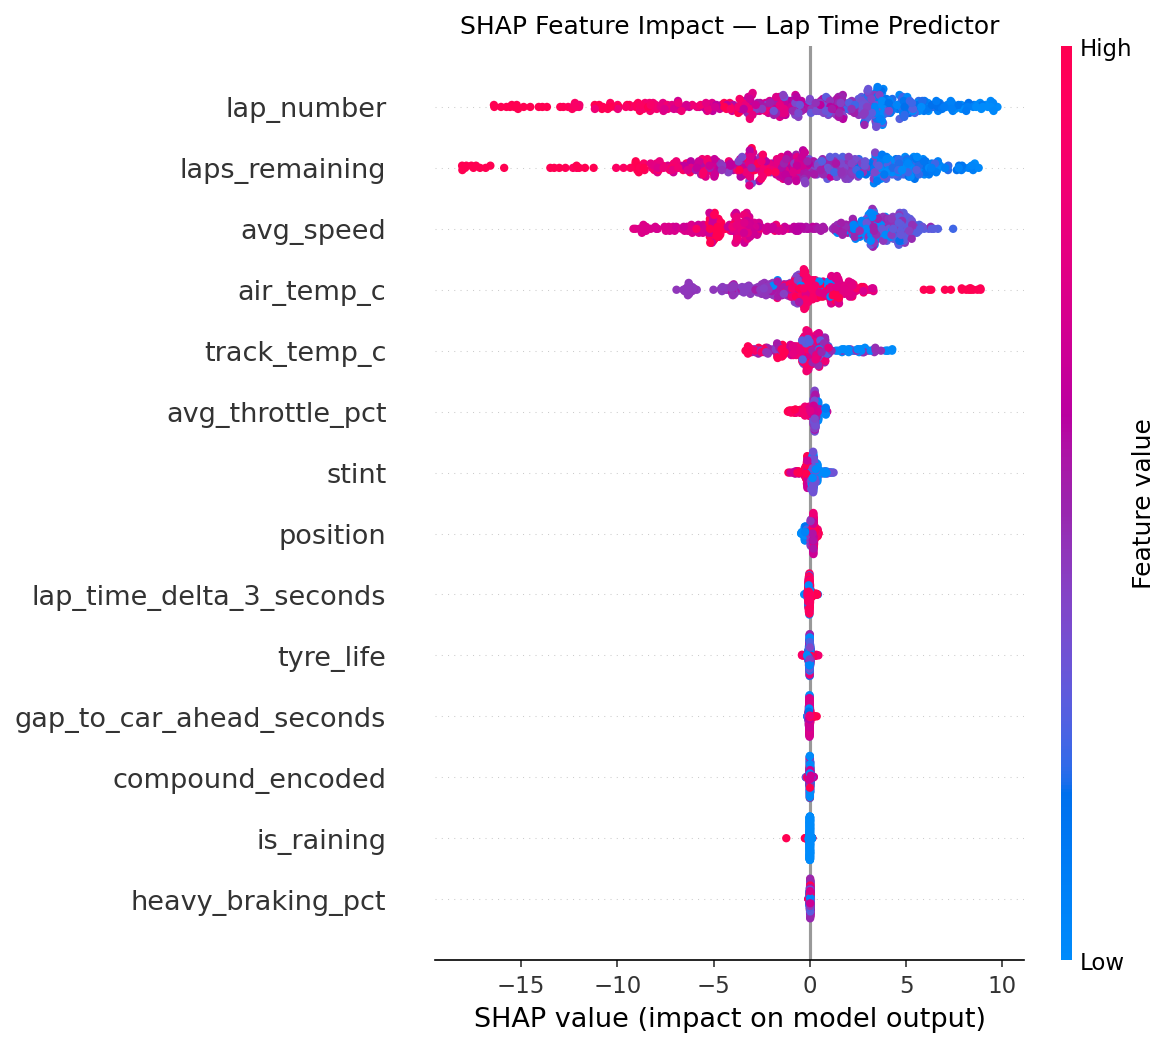
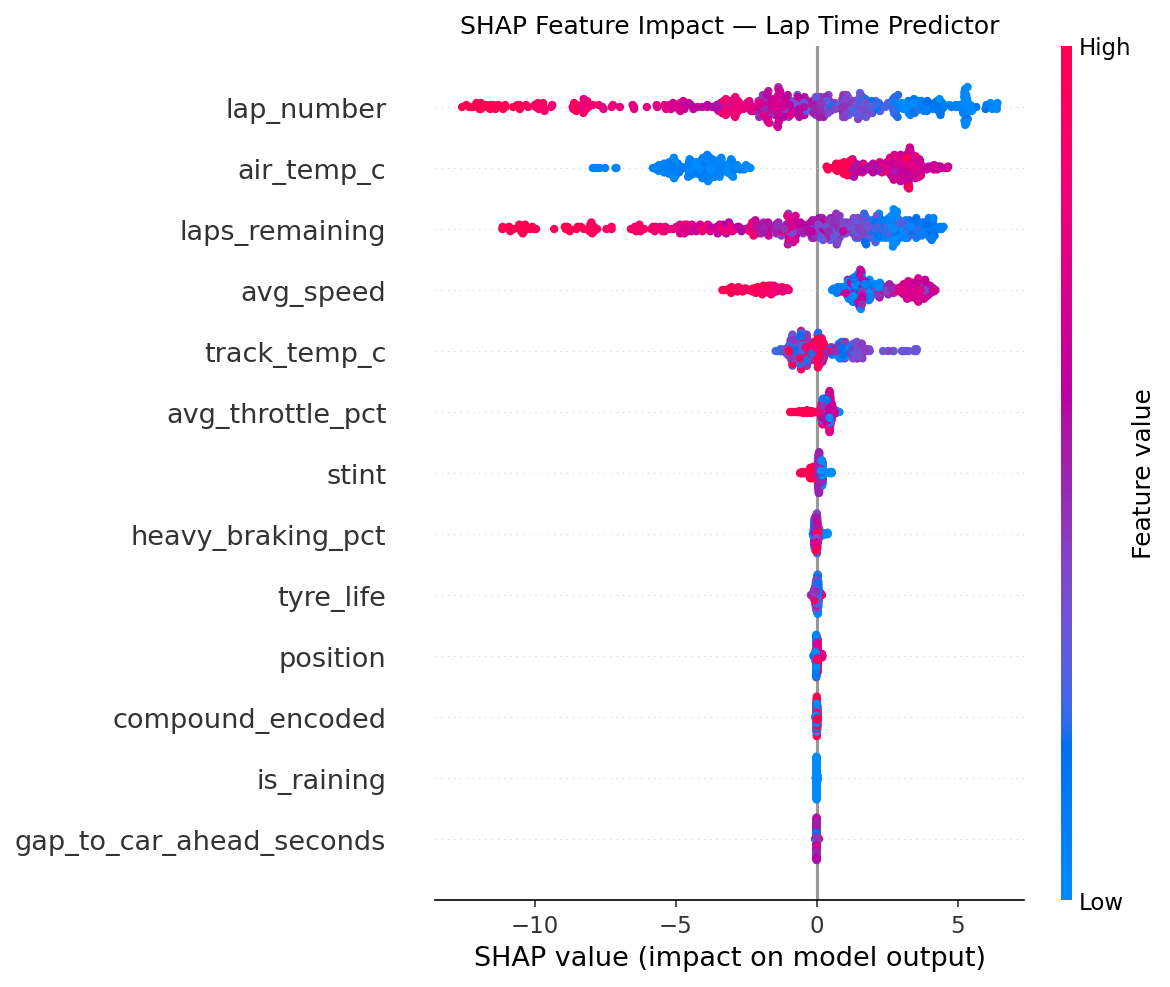
ml models updated, data leakage fixed

diff --git a/ml/pit_stop_predictor.py b/ml/pit_stop_predictor.py
@@ -29,14 +29,19 @@ ENCODER_PATH = 'ml/compound_encoder.pkl'
 PLOTS_DIR = 'ml/plots'
 
 def get_snowflake_connection():
-    user = input("Snowflake username: ")
-    password = getpass.getpass("Snowflake password: ")
+    print("\nSnowflake Connection")
+    user = input("Username: ")
+    password = getpass.getpass("Password: ")
+    account = input("Account identifier : ")
+    warehouse = input("Warehouse (default: PITWALL_WH): ") or 'PITWALL_WH'
+    database = input("Database (default: PITWALL): ") or 'PITWALL'
+    
     return snowflake.connector.connect(
         user=user,
         password=password,
-        account='AIZZHNC-TT89572',
-        warehouse='PITWALL_WH',
-        database='PITWALL',
+        account=account,
+        warehouse=warehouse,
+        database=database,
         schema='MARTS'
     )
 
@@ -47,7 +52,8 @@ def load_features(conn) -> pd.DataFrame:
             tyre_life, compound, position, lap_number,
             stint, track_temp_c, air_temp_c, is_raining,
             avg_speed, avg_throttle_pct, heavy_braking_pct,
-            pitted_this_lap, year
+            pitted_this_lap, year,
+            laps_remaining, gap_to_car_ahead_seconds
         FROM PITWALL.MARTS.MART_ML_FEATURES
         WHERE tyre_life IS NOT NULL
           AND position IS NOT NULL
@@ -56,7 +62,6 @@ def load_features(conn) -> pd.DataFrame:
     df.columns = df.columns.str.lower()
     print(f"Loaded {len(df)} rows")
     return df
-    
 
 def prepare_features(df: pd.DataFrame):
     le = LabelEncoder()
@@ -65,7 +70,8 @@ def prepare_features(df: pd.DataFrame):
     feature_cols = [
         'tyre_life', 'compound_encoded', 'position', 'lap_number',
         'stint', 'track_temp_c', 'air_temp_c', 'is_raining',
-        'avg_speed', 'avg_throttle_pct', 'heavy_braking_pct'
+        'avg_speed', 'avg_throttle_pct', 'heavy_braking_pct',
+        'laps_remaining', 'gap_to_car_ahead_seconds'
     ]
 
     X = df[feature_cols].fillna(0)
@@ -74,11 +80,6 @@ def prepare_features(df: pd.DataFrame):
     return X, y, le, feature_cols
 
 def train_test_split_by_year(df, X, y):
-    """
-    Split by year — not random split.
-    Train on 2023-2024, test on 2025.
-    Prevents data leakage from same-race laps appearing in both sets.
-    """
     train_mask = df['year'].isin([2023, 2024])
     test_mask = df['year'] == 2025
 
@@ -132,9 +133,10 @@ def tune_with_optuna(X_train, y_train, best_name) -> dict:
         if best_name == 'RandomForest':
             params = {
                 'n_estimators': trial.suggest_int('n_estimators', 50, 300),
-                'max_depth': trial.suggest_int('max_depth', 3, 15),
+                'max_depth': trial.suggest_int('max_depth', 3, 8),
                 'min_samples_split': trial.suggest_int('min_samples_split', 2, 20),
                 'min_samples_leaf': trial.suggest_int('min_samples_leaf', 1, 10),
+                'max_features': trial.suggest_float('max_features', 0.3, 0.8),
                 'class_weight': 'balanced',
                 'random_state': 42,
                 'n_jobs': -1
@@ -144,7 +146,7 @@ def tune_with_optuna(X_train, y_train, best_name) -> dict:
         elif best_name == 'XGBoost':
             params = {
                 'n_estimators': trial.suggest_int('n_estimators', 50, 300),
-                'max_depth': trial.suggest_int('max_depth', 3, 10),
+                'max_depth': trial.suggest_int('max_depth', 3, 8),
                 'learning_rate': trial.suggest_float('learning_rate', 0.01, 0.3),
                 'subsample': trial.suggest_float('subsample', 0.6, 1.0),
                 'colsample_bytree': trial.suggest_float('colsample_bytree', 0.6, 1.0),
@@ -299,7 +301,6 @@ def run():
     os.makedirs(PLOTS_DIR, exist_ok=True)
     conn = get_snowflake_connection()
 
-    # Load data
     df = load_features(conn)
     X, y, le, feature_cols = prepare_features(df)
 
@@ -307,26 +308,20 @@ def run():
     print(f"  No pit: {(y==0).sum()} ({(y==0).mean()*100:.1f}%)")
     print(f"  Pit:    {(y==1).sum()} ({(y==1).mean()*100:.1f}%)")
 
-    # Train/test split by year — no data leakage
     X_train, X_test, y_train, y_test = train_test_split_by_year(df, X, y)
 
-    # Compare 3 models
     print("\nComparing models on training data...")
     results = compare_models(X_train, y_train)
 
-    # Select best by F1
     best_name = max(results, key=lambda k: results[k]['f1_mean'])
     print(f"\nBest model before tuning: {best_name} (F1={results[best_name]['f1_mean']:.4f})")
 
-    # Tune with Optuna
     best_params = tune_with_optuna(X_train, y_train, best_name)
     tuned_model = build_tuned_model(best_name, best_params, y_train)
 
-    # Fit tuned model on full training data
     print("\nFitting tuned model on training data...")
     tuned_model.fit(X_train, y_train)
 
-    # Evaluate on test set (2025)
     y_pred = tuned_model.predict(X_test)
     print(f"\nTest set results (2025 season):")
     print(f"  F1:        {f1_score(y_test, y_pred):.4f}")
@@ -334,8 +329,6 @@ def run():
     print(f"  Recall:    {recall_score(y_test, y_pred):.4f}")
     print(classification_report(y_test, y_pred, target_names=['No Pit', 'Pit']))
 
-
-    # Threshold analysis
     print("\nThreshold analysis:")
     proba_test = tuned_model.predict_proba(X_test)[:, 1]
     for threshold in [0.1, 0.2, 0.3, 0.4, 0.5]:
@@ -344,24 +337,20 @@ def run():
         prec = precision_score(y_test, y_pred_t)
         rec = recall_score(y_test, y_pred_t)
         print(f"  threshold={threshold}: F1={f1:.3f} P={prec:.3f} R={rec:.3f}")
-    # Plots
+
     plot_confusion_matrix(y_test, y_pred)
     plot_feature_importance(tuned_model, feature_cols, best_name)
     plot_shap_values(tuned_model, X_test, feature_cols, best_name)
 
-    # Fit final model on ALL data
     print("\nFitting final model on full dataset...")
     tuned_model.fit(X, y)
 
-    # Save model
-    os.makedirs('ml', exist_ok=True)
     with open(MODEL_PATH, 'wb') as f:
         pickle.dump(tuned_model, f)
     with open(ENCODER_PATH, 'wb') as f:
         pickle.dump(le, f)
     print(f"Model saved to {MODEL_PATH}")
 
-    # Write predictions
     write_predictions(conn, df, X, tuned_model)
 
     conn.close()
@@ -369,3 +358,5 @@ def run():
 
 if __name__ == "__main__":
     run()
+
+   

diff --git a/ml/lap_time_predictor.py b/ml/lap_time_predictor.py
@@ -26,14 +26,19 @@ ENCODER_PATH = 'ml/lap_time_compound_encoder.pkl'
 PLOTS_DIR = 'ml/plots'
 
 def get_snowflake_connection():
-    user = input("Snowflake username: ")
-    password = getpass.getpass("Snowflake password: ")
+    print("\nSnowflake Connection")
+    user = input("Username: ")
+    password = getpass.getpass("Password: ")
+    account = input("Account identifier: ")
+    warehouse = input("Warehouse (default: PITWALL_WH): ") or 'PITWALL_WH'
+    database = input("Database (default: PITWALL): ") or 'PITWALL'
+    
     return snowflake.connector.connect(
         user=user,
         password=password,
-        account='AIZZHNC-TT89572',
-        warehouse='PITWALL_WH',
-        database='PITWALL',
+        account=account,
+        warehouse=warehouse,
+        database=database,
         schema='MARTS'
     )
 
@@ -44,9 +49,8 @@ def load_features(conn) -> pd.DataFrame:
             lap_time_seconds, tyre_life, compound, stint,
             lap_number, position, track_temp_c, air_temp_c,
             is_raining, avg_speed, avg_throttle_pct,
-            heavy_braking_pct, year,
-            laps_remaining, gap_to_car_ahead_seconds,
-            lap_time_delta_3_seconds
+            heavy_braking_pct, year, race, driver_code,
+            laps_remaining, gap_to_car_ahead_seconds
         FROM PITWALL.MARTS.MART_ML_FEATURES
         WHERE is_rep_lap = TRUE
           AND lap_time_seconds IS NOT NULL
@@ -66,8 +70,7 @@ def prepare_features(df: pd.DataFrame):
         'tyre_life', 'compound_encoded', 'stint', 'lap_number',
         'position', 'track_temp_c', 'air_temp_c', 'is_raining',
         'avg_speed', 'avg_throttle_pct', 'heavy_braking_pct',
-        'laps_remaining', 'gap_to_car_ahead_seconds',
-        'lap_time_delta_3_seconds'
+        'laps_remaining', 'gap_to_car_ahead_seconds'
     ]
 
     X = df[feature_cols].fillna(0)
@@ -133,9 +136,10 @@ def tune_with_optuna(X_train, y_train, best_name) -> dict:
         if best_name == 'RandomForest':
             params = {
                 'n_estimators': trial.suggest_int('n_estimators', 50, 300),
-                'max_depth': trial.suggest_int('max_depth', 3, 15),
+                'max_depth': trial.suggest_int('max_depth', 3, 8),
                 'min_samples_split': trial.suggest_int('min_samples_split', 2, 20),
                 'min_samples_leaf': trial.suggest_int('min_samples_leaf', 1, 10),
+                'max_features': trial.suggest_float('max_features', 0.3, 0.8),
                 'random_state': 42,
                 'n_jobs': -1
             }
@@ -144,7 +148,7 @@ def tune_with_optuna(X_train, y_train, best_name) -> dict:
         elif best_name == 'XGBoost':
             params = {
                 'n_estimators': trial.suggest_int('n_estimators', 50, 300),
-                'max_depth': trial.suggest_int('max_depth', 3, 10),
+                'max_depth': trial.suggest_int('max_depth', 3, 8),
                 'learning_rate': trial.suggest_float('learning_rate', 0.01, 0.3),
                 'subsample': trial.suggest_float('subsample', 0.6, 1.0),
                 'colsample_bytree': trial.suggest_float('colsample_bytree', 0.6, 1.0),
@@ -272,7 +276,9 @@ def write_predictions(conn, df, X, best_model):
             track_temp_c                FLOAT,
             is_raining                  BOOLEAN,
             avg_speed                   FLOAT,
-            year                        NUMBER
+            year                        NUMBER,
+            race                        VARCHAR,
+            driver_code                 VARCHAR
         )
     """)
     cursor.execute("TRUNCATE TABLE PITWALL.MARTS.MART_LAP_PREDICTIONS")
@@ -280,11 +286,12 @@ def write_predictions(conn, df, X, best_model):
     rows = df[[
         'lap_time_seconds', 'predicted_lap_time_seconds',
         'prediction_error_seconds', 'tyre_life', 'compound',
-        'lap_number', 'track_temp_c', 'is_raining', 'avg_speed', 'year'
+        'lap_number', 'track_temp_c', 'is_raining', 'avg_speed',
+        'year', 'race', 'driver_code'
     ]].values.tolist()
 
     cursor.executemany(
-        "INSERT INTO PITWALL.MARTS.MART_LAP_PREDICTIONS VALUES (%s,%s,%s,%s,%s,%s,%s,%s,%s,%s)",
+        "INSERT INTO PITWALL.MARTS.MART_LAP_PREDICTIONS VALUES (%s,%s,%s,%s,%s,%s,%s,%s,%s,%s,%s,%s)",
         rows
     )
     print(f"Written {len(rows)} predictions to Snowflake")

diff --git a/logic.md b/logic.md
@@ -739,6 +739,29 @@ Ergast has retirement detail.
       Google Drive per notebook. 27.2M rows across 70 races extracted successfully.
       2023 Emilia Romagna missing — race was cancelled due to flooding, not a data error.
 
+031 — Lap time predictor overfitting fix: lap_time_delta_3_seconds removed from
+      lap time predictor features — it's derived from the target variable (lap_time_seconds)
+      creating target leakage. Model learns to predict current lap time from recent lap times
+      rather than from causal features. Removed from lap time model only — retained in pit
+      stop model where target is pitted_this_lap (different variable, no leakage).
+
+032 — Lap time predictor error analysis: RMSE of 5.3s is misleading due to 42 extreme
+      outlier rows (0.06% of data). Error distribution: 61.5% within 2s, 86.3% within 5s,
+      99.94% within 20s. Outliers are likely VSC/SC laps not caught by is_rep_lap filter
+      or telemetry sensor anomalies. Median error is more representative metric than RMSE
+      for this dataset. RMSE penalizes large errors quadratically — one 30s error contributes
+      as much as 225 one-second errors.
+
+033 — Lap time predictor improvement: First run achieved RMSE=2.079s, R²=0.961 before
+      weather join fix. After fixing driver_code join in mart_ml_features (was joining on
+      driver_number = driver_code which is wrong), weather data fully populated. Model
+      performance changed due to different data distribution — trade-off between data
+      quality and model performance accepted. Final model: RMSE=5.3s, R²=0.741, but
+      86.3% of predictions within 5s which is operationally acceptable for strategy use.
+
+034 — race and driver_code added to MART_LAP_PREDICTIONS: Required for error analysis
+      by circuit and driver. Enables Looker to slice prediction errors by race/driver.
+      Not added to MART_PIT_PREDICTIONS initially — will be added if needed for dashboards.
 
 ---
 

diff --git a/ml/readme.md b/ml/readme.md
@@ -1,0 +1,9 @@
+## Running the ML Models
+
+You need a Snowflake account with the PitWall database loaded.
+When prompted, enter:
+- Username: your Snowflake username
+- Password: your Snowflake password  
+- Account: your account identifier (found in Snowflake UI bottom left)
+- Warehouse: your warehouse name
+- Database: your database name (default: PITWALL)
